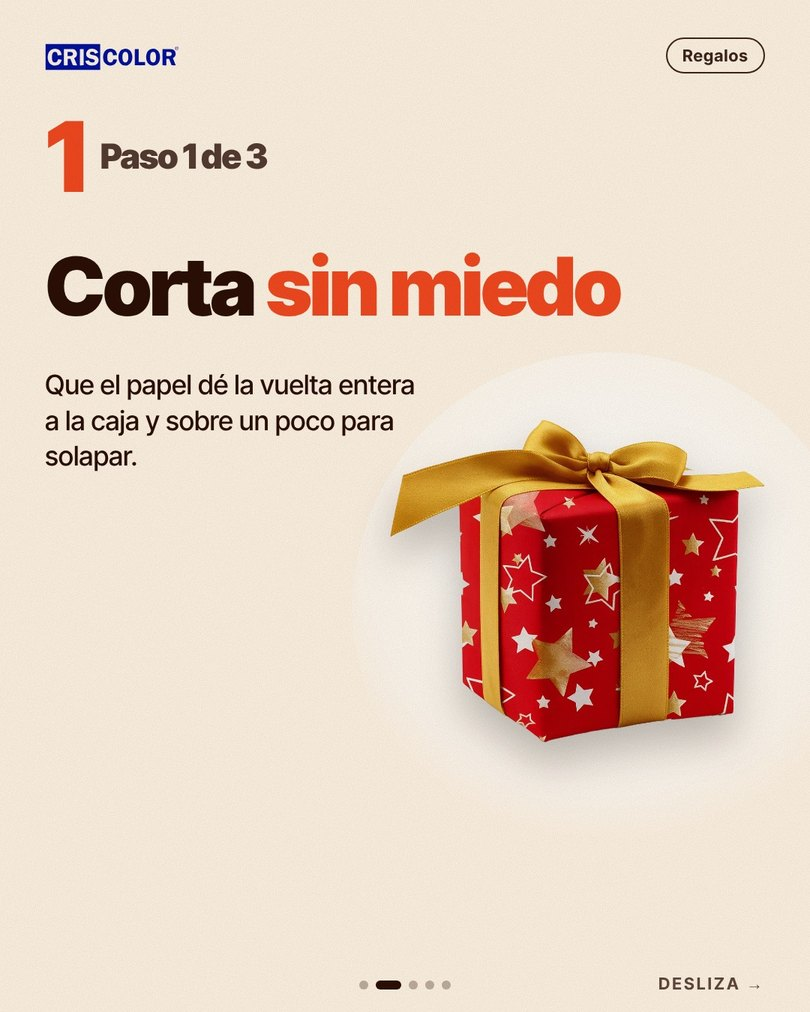
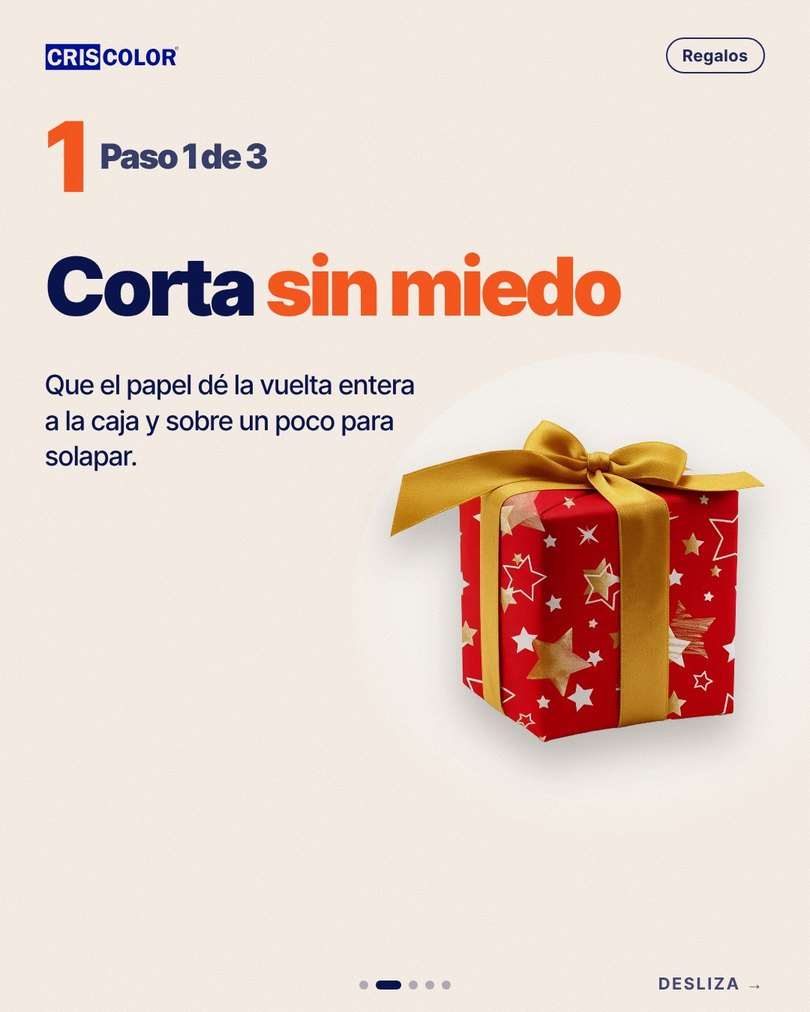
Semana 46: imágenes con la paleta azul Criscolor
Claude-Session: https://claude.ai/code/session_016vX2tAnYJNsb3voomsbycX

diff --git a/data/weeks.js b/data/weeks.js
@@ -7,7 +7,7 @@ window.WEEKS = [
   "items": [
    {
     "id": "s46-lun",
-    "v": 4,
+    "v": 5,
     "type": "story",
     "day": "Lunes",
     "date": "9 nov",
@@ -17,7 +17,7 @@ window.WEEKS = [
    },
    {
     "id": "p46-mar",
-    "v": 3,
+    "v": 4,
     "type": "post",
     "day": "Martes",
     "date": "10 nov",
@@ -28,7 +28,7 @@ window.WEEKS = [
    },
    {
     "id": "s46-mie",
-    "v": 4,
+    "v": 5,
     "type": "story",
     "day": "Miércoles",
     "date": "11 nov",
@@ -38,7 +38,7 @@ window.WEEKS = [
    },
    {
     "id": "p46-jue",
-    "v": 3,
+    "v": 4,
     "type": "post",
     "day": "Jueves",
     "date": "12 nov",
@@ -49,7 +49,7 @@ window.WEEKS = [
    },
    {
     "id": "s46-vie",
-    "v": 4,
+    "v": 5,
     "type": "story",
     "day": "Viernes",
     "date": "13 nov",

diff --git a/index.html b/index.html
@@ -31,7 +31,7 @@
   </form>
 </div>
 
-<script src="/data/weeks.js?v=12"></script>
+<script src="/data/weeks.js?v=13"></script>
 <script src="/assets/app.js?v=4"></script>
 </body>
 </html>
